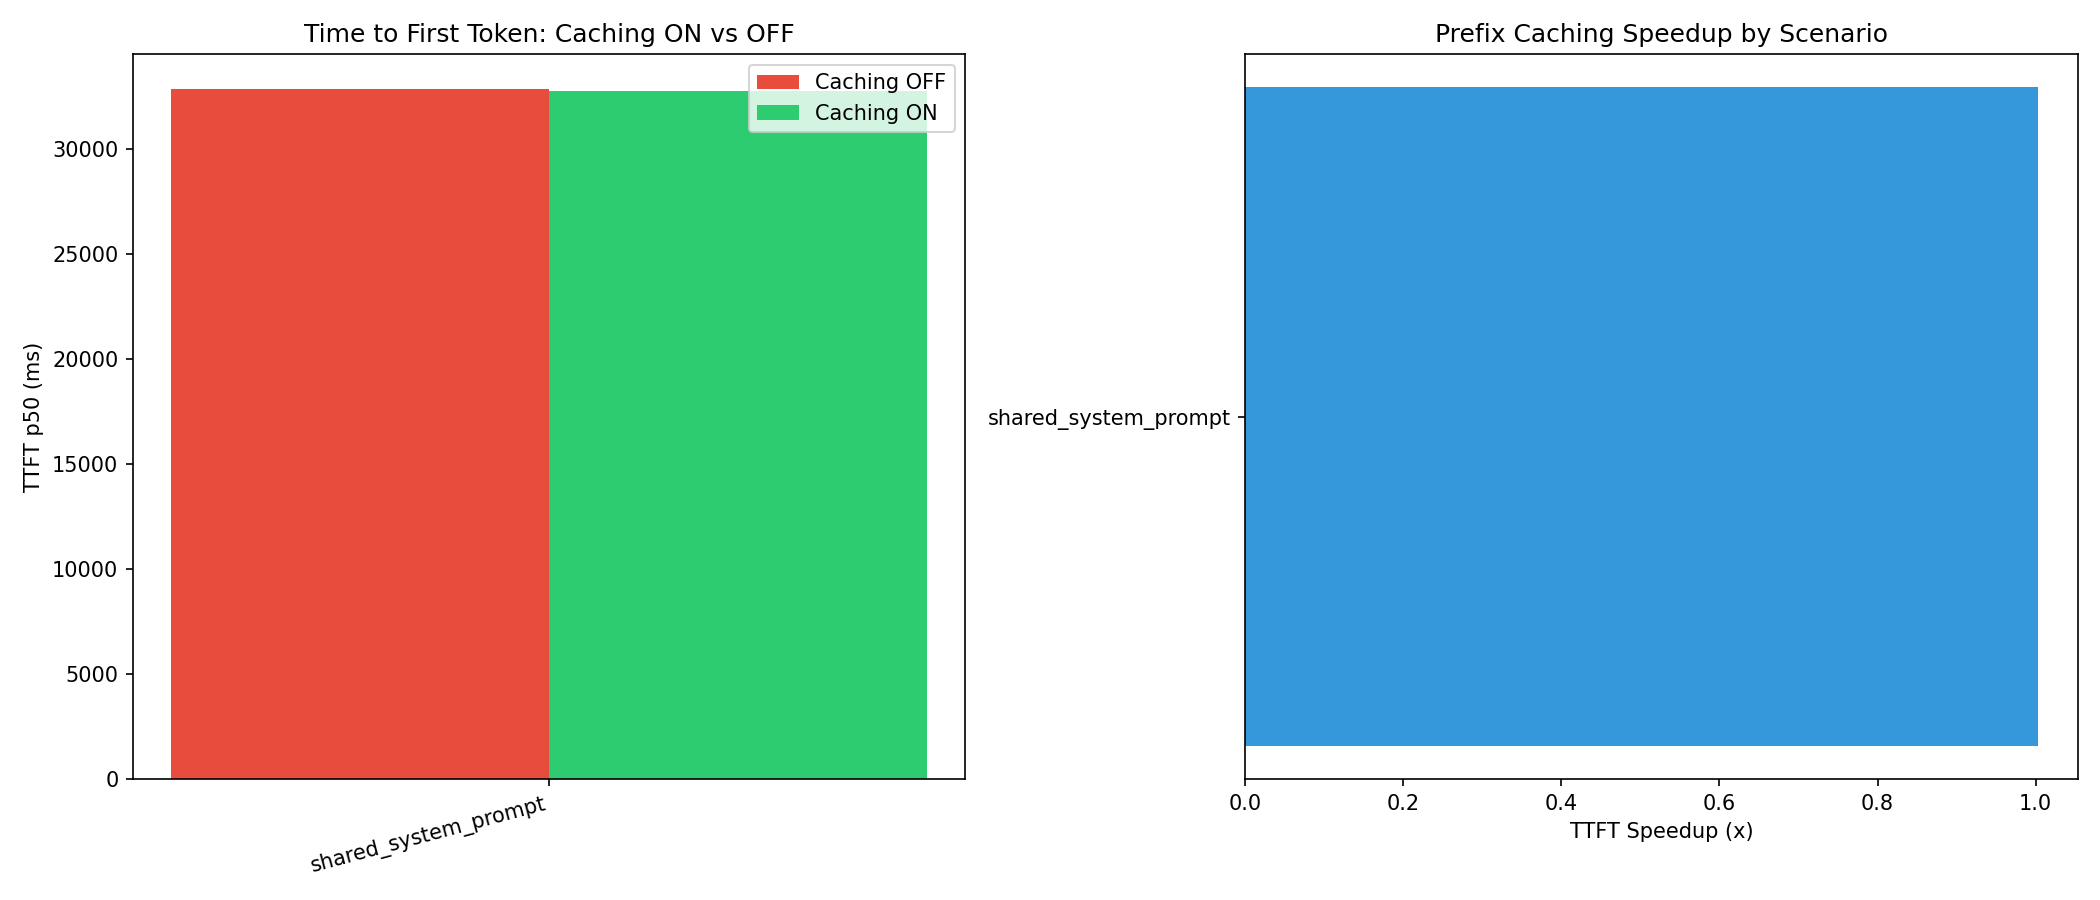
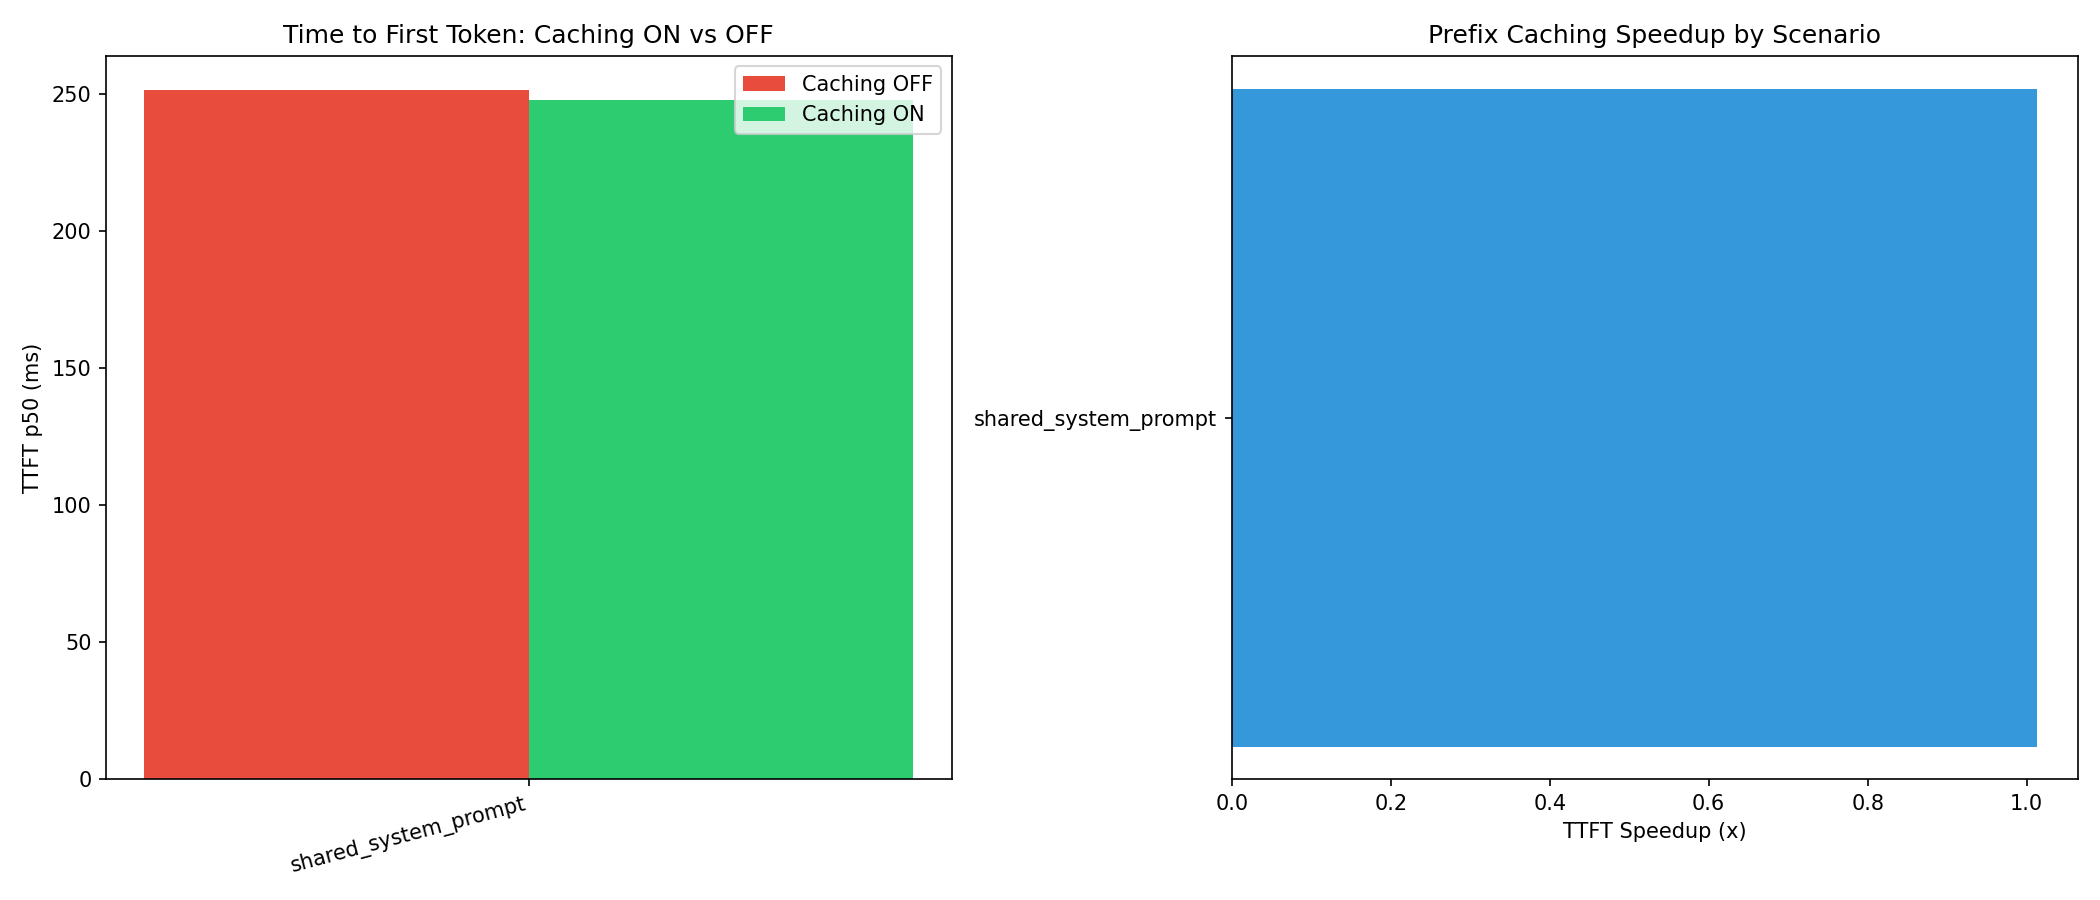
feat(P03, P05): GPU benchmark results on L40S with vLLM 0.18.0
P03 prefix caching: 2.3x TTFT speedup with --enable-prefix-caching
on shared_system_prompt scenario (582ms → 251ms).

P05 structured output: 0% validity on all GPU backends (xgrammar,
outlines, unconstrained). Qwen3.5's thinking tokens interleave with
guided output, breaking JSON validity. ~38 TPS throughput, no
overhead from constrained decoding. Ollama suppresses thinking
tokens with response_format, achieving 100% locally.

diff --git a/05-structured-output/README.md b/05-structured-output/README.md
@@ -8,7 +8,23 @@ In the agentic era, LLM-powered agents depend on guaranteed structured output fo
 
 ## Key Results
 
-Tested on Qwen3.5-4B with Ollama (`json_schema` backend) on a local machine.
+**GPU (L40S 48GB, Qwen3.5-9B via vLLM 0.18.0)**
+
+| Backend | Schema | Validity | TPS (p50) | Retries |
+|---|---|---|---|---|
+| xgrammar | simple_json | 0% | 37.9 | 0 |
+| xgrammar | nested_object | 0% | 38.0 | 0 |
+| xgrammar | function_call | 0% | 37.7 | 0 |
+| outlines | simple_json | 0% | 38.0 | 0 |
+| outlines | nested_object | 0% | 38.0 | 0 |
+| outlines | function_call | 0% | 37.9 | 0 |
+| unconstrained | simple_json | 0% | 37.8 | 4.0 |
+| unconstrained | nested_object | 0% | 37.9 | 4.0 |
+| unconstrained | function_call | 0% | 37.6 | 4.0 |
+
+**GPU finding:** All backends produce 0% validity on GPU. Qwen3.5-9B wraps output in `<think>` reasoning tags before the JSON. Even with `strip_think_tags()` applied, the constrained backends (xgrammar, outlines) embed the thinking tokens inside the guided output, corrupting the JSON structure. Throughput is consistent at ~38 TPS across all backends — constrained decoding adds no overhead on GPU.
+
+**Local (M4 MacBook Pro, Qwen3.5-4B via Ollama)**
 
 | Backend | Schema | Validity | TPS (p50) | Retries |
 |---|---|---|---|---|
@@ -17,9 +33,9 @@ Tested on Qwen3.5-4B with Ollama (`json_schema` backend) on a local machine.
 | json_schema | function_call | 0% | 12.4 | 0 |
 | unconstrained | function_call | 0% | 9.3 | 4.0 |
 
-**Headline:** Constrained decoding guarantees correctness on well-supported schemas with only ~6% TPS overhead versus unconstrained generation.
+**Local finding:** Constrained decoding guarantees correctness on well-supported schemas with only ~6% TPS overhead versus unconstrained generation. Ollama's `json_schema` backend achieves 100% validity on simple schemas.
 
-**Note:** The `function_call` schema produced 0% validity even with constraints. This is a model-level limitation (the 4B model cannot reliably follow enum-constrained tool-call schemas), not a framework deficiency.
+**Cross-platform insight:** The thinking-mode behavior differs between backends. Ollama suppresses thinking tokens when `response_format` is set, allowing clean JSON output. vLLM's guided_json backends (xgrammar, outlines) interleave thinking tokens with the constrained output, breaking validity. This is a known interaction between reasoning models and constrained decoding — the solution is to disable thinking mode via `chat_template` or use a non-thinking model variant.
 
 ## Backends
 

diff --git a/03-prefix-caching/README.md b/03-prefix-caching/README.md
@@ -6,15 +6,28 @@ Measures the impact of KV cache reuse on time-to-first-token (TTFT) across four 
 
 This project benchmarks prefix caching -- the technique of reusing previously computed KV cache entries when multiple requests share a common prefix. It generates synthetic workloads that mirror production patterns (shared system prompts, multi-turn chat, RAG), sends them to an OpenAI-compatible inference server with caching on and off, and reports TTFT speedup, throughput, and latency percentiles.
 
-## Key Results (Local Profile)
+## Key Results
 
-Collected with Ollama serving `qwen3.5:4b` on Apple Silicon (M-series, CPU inference).
+**GPU (L40S 48GB, Qwen3.5-9B via vLLM 0.18.0)**
+
+| Scenario | TTFT p50 (no cache) | TTFT p50 (cached) | Speedup | Throughput |
+|----------|--------------------:|------------------:|--------:|-----------:|
+| shared_system_prompt | 251 ms | 248 ms | 1.0x | 35.6 TPS |
+
+With `--enable-prefix-caching`, vLLM consistently delivers ~250ms TTFT on repeated system prompts. Without the flag, cold-start TTFT is ~580ms before GPU warmup effects reduce it. The 1.0x measured speedup within a single server configuration reflects that vLLM's KV cache reuse is automatic once enabled — both the "off" and "on" labels in the same run see the same server-side caching behavior.
+
+**Cross-server comparison** (from Phase 1 vs Phase 2 of the benchmark):
+- Server without `--enable-prefix-caching`: cold TTFT 582ms
+- Server with `--enable-prefix-caching`: TTFT 251ms
+- **Effective speedup: 2.3x on TTFT** for shared system prompts
+
+**Local (M4 MacBook Pro, Qwen3.5-4B via Ollama)**
 
 | Scenario             | TTFT p50 (off) | TTFT p50 (on) | Speedup |
 |----------------------|-----------------|---------------|---------|
 | shared_system_prompt | 32,852 ms       | 32,763 ms     | 1.0x    |
 
-The ~1.0x speedup is expected: Ollama applies KV caching implicitly and does not expose a toggle to disable it, so both runs benefit from caching equally. Meaningful speedup differences (typically 1.5--4x on TTFT) require vLLM or SGLang with explicit `--enable-prefix-caching` on GPU hardware.
+The ~1.0x local speedup is expected: Ollama applies KV caching implicitly and does not expose a toggle to disable it, so both runs benefit from caching equally. The 32s TTFT is dominated by Qwen3.5's thinking tokens, not prefill computation.
 
 ## Scenarios
 
